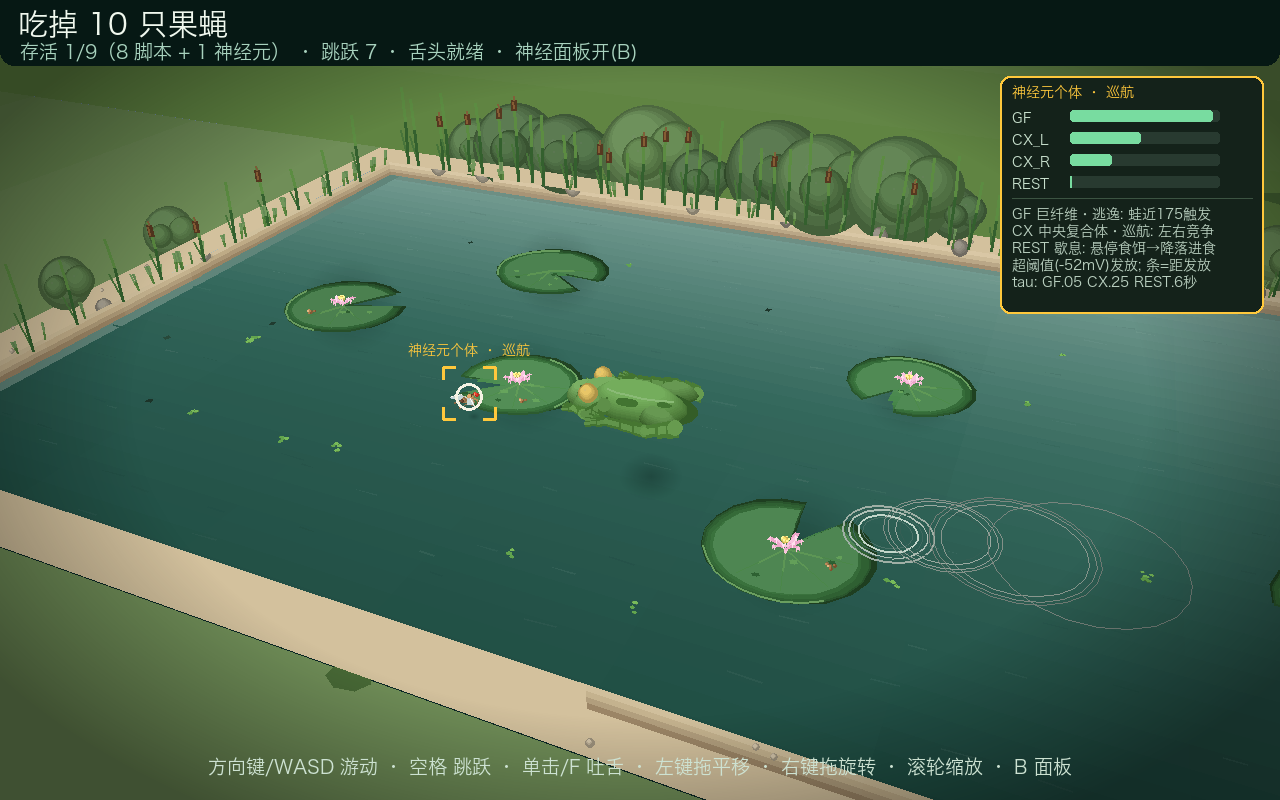
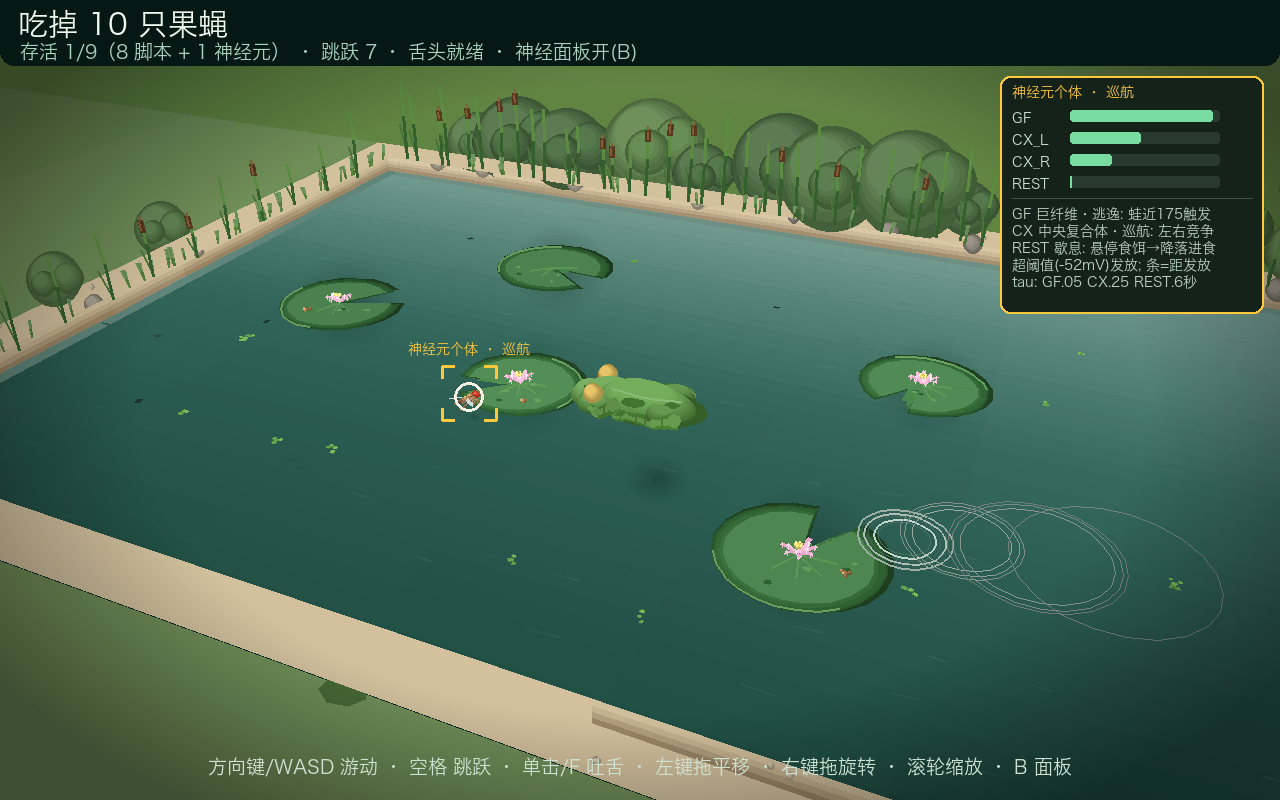
fix(art): tuck the frog's legs into a sitting pose, shorten them, rebuild the fly body
Frog:
- hind legs are now the frog's folded sitting pose (knee just outside the silhouette,
  long foot folded forward alongside the body) and are ~25% shorter overall: hip
  (-8,13) -> knee (-20,23) -> ankle (0,28) -> toe (13,26), toes 9 units, webbing
  scaled to match; the kick/swim pose and the airborne extended pose were rescaled too
- front legs shortened (shoulder 17, elbow 24, wrist 35) with 7-unit toes

Fly:
- 5-segment banded abdomen (amber to dark, tapering), humped thorax with a darker
  scutellum, 8 dorsal bristles in two rows, bigger compound eyes that fill the head,
  a permanently visible proboscis, tapered antennae
- legs rebuilt on limb() (femur/tibia/tarsus taper, lit joint fills instead of dark
  ball caps)
- wings rebuilt: rounded teardrop outline with an edge shadow polygon, three veins and
  a leading-edge highlight; the folded wing now lies along the abdomen with an inner
  vein line

Docs: all four game screenshots regenerated (including the mid-page pond figure that
shows the neural individual's bracket and live panel)

Verified: --selftest PASS, ~23 ms/frame headless

diff --git a/main.py b/main.py
@@ -191,49 +191,53 @@ class Frog:
                   self.z + lz if lz is not None else self.z)
 
     def _hind_leg(self, painter, cam, side, gz, swing, airborne, skin, dark):
-        """后腿：股 → 胫 → 跗，折成青蛙特有的 Z 形，末端是四趾蹼足。"""
-        knee_out = -0.9 * swing * side
-        hip = self._local(-8, side * 15, 9.5)
+        """后腿：股 → 胫 → 跗，折成青蛙特有的 Z 形并收在身体两侧，末端是四趾蹼足。
+
+        静止时是青蛙的坐姿——膝略微顶出身体轮廓, 长脚掌贴着身体侧面向前收；
+        游动/跳跃时腿才蹬开(swing 驱动)。"""
+        kick = swing / 9.0 if not airborne else 1.0      # -1 ~ 1
+        hip = self._local(-8, side * 13, 9.5)
         if airborne:
-            knee = self._local(-38, side * 24, 8.0)
-            ankle = self._local(-18, side * 33, 6.5)
-            toe = self._local(12, side * 30, 6.0)
+            knee = self._local(-29, side * 17, 8.0)
+            ankle = self._local(-15, side * 23, 7.0)
+            toe = self._local(5, side * 21, 6.5)
         else:
-            knee = self._local(-31 + knee_out, side * 34, 6.5)
-            ankle = self._local(-5 + swing * 0.6, side * 40, gz - self.z + 2.0)
-            toe = self._local(17 + swing * 0.9, side * 35, gz - self.z + 1.0)
+            knee = self._local(-20 - 3.0 * kick, side * 23 + 3.0 * abs(kick), 6.5)
+            ankle = self._local(0 + 4.0 * kick, side * 28 + 2.5 * abs(kick),
+                                gz - self.z + 2.0)
+            toe = self._local(13 + 3.0 * kick, side * 26, gz - self.z + 1.2)
         # 股部：贴在大腿上的扁平肌肉块(椭圆), 比一根粗筒自然得多
         femur_ang = math.atan2(knee.y - hip.y, knee.x - hip.x)
         thigh = hip.lerp(knee, 0.48)
-        blob(painter, cam, thigh.x, thigh.y, hip.z - 4.0, 15.5, 9.5, 9.0,
+        blob(painter, cam, thigh.x, thigh.y, hip.z - 4.0, 13.0, 8.2, 8.5,
              mix(skin, dark, 0.16), heading=femur_ang, layers=9, taper=0.40, bias=0.55)
-        limb(painter, cam, knee, ankle, 6.4, skin, bias=0.3, taper=0.58)
-        limb(painter, cam, ankle, toe, 5.0, mix(skin, dark, 0.18), bias=0.2, taper=0.6)
+        limb(painter, cam, knee, ankle, 5.6, skin, bias=0.3, taper=0.58)
+        limb(painter, cam, ankle, toe, 4.4, mix(skin, dark, 0.18), bias=0.2, taper=0.6)
         for k in range(4):                                  # 蹼趾：从跗端向前扇开
             ta = self.heading + side * (0.52 - k * 0.34)
-            tip = V3(toe.x + math.cos(ta) * 15, toe.y + math.sin(ta) * 15, toe.z)
-            limb(painter, cam, toe, tip, 3.1, mix(skin, dark, 0.28), bias=0.1, taper=0.5)
+            tip = V3(toe.x + math.cos(ta) * 9, toe.y + math.sin(ta) * 9, toe.z)
+            limb(painter, cam, toe, tip, 2.8, mix(skin, dark, 0.28), bias=0.1, taper=0.5)
         web = [toe]                                         # 趾间蹼：薄扇形膜, 让后足读作"桨"
         for k in (0, 3):
             ta = self.heading + side * (0.52 - k * 0.34)
-            web.append(V3(toe.x + math.cos(ta) * 13.0, toe.y + math.sin(ta) * 13.0, toe.z - 0.2))
+            web.append(V3(toe.x + math.cos(ta) * 7.8, toe.y + math.sin(ta) * 7.8, toe.z - 0.2))
         flat_polygon(painter, cam, web, mix(skin, dark, 0.5), bias=0.05)
 
     def _front_leg(self, painter, cam, side, gz, swing, airborne, skin, dark):
         """前腿：肩 → 肘 → 腕，三趾。"""
         if airborne:
-            elbow = self._local(30, side * 26, 5.0)
-            wrist = self._local(42, side * 18, 3.0)
+            elbow = self._local(26, side * 21, 5.0)
+            wrist = self._local(34, side * 15, 3.0)
         else:
-            elbow = self._local(28, side * 22, 3.0)
-            wrist = self._local(42 + swing * 0.5 * side, side * 15, gz - self.z + 1.0)
-        shoulder = self._local(19, side * 13, 7.5)
-        limb(painter, cam, shoulder, elbow, 6.2, mix(skin, dark, 0.3), bias=0.4)
-        limb(painter, cam, elbow, wrist, 4.6, skin, bias=0.2)
+            elbow = self._local(24, side * 18, 3.0)
+            wrist = self._local(35 + swing * 0.5 * side, side * 13, gz - self.z + 1.0)
+        shoulder = self._local(17, side * 12, 7.5)
+        limb(painter, cam, shoulder, elbow, 5.6, mix(skin, dark, 0.3), bias=0.4)
+        limb(painter, cam, elbow, wrist, 4.2, skin, bias=0.2)
         for k in range(3):
             ta = self.heading + side * (0.42 - k * 0.42)
-            tip = V3(wrist.x + math.cos(ta) * 9, wrist.y + math.sin(ta) * 9, wrist.z)
-            limb(painter, cam, wrist, tip, 2.7, mix(skin, dark, 0.25), bias=0.1, taper=0.5)
+            tip = V3(wrist.x + math.cos(ta) * 7, wrist.y + math.sin(ta) * 7, wrist.z)
+            limb(painter, cam, wrist, tip, 2.4, mix(skin, dark, 0.25), bias=0.1, taper=0.5)
 
     def draw(self, painter, cam, t, pads):
         x, y = self.pos
@@ -420,42 +424,49 @@ class FlyBase:
                 hp = L(hip[0], hip[1], z + 1.0)
                 kn = L(knee[0], knee[1], (z + 1.0 + gz) / 2 + 0.6)
                 ft = L(foot0[0] + stride, foot0[1], gz + 0.25)
-            self._seg(painter, cam, hp, kn, (178, 140, 92), 2)
-            self._seg(painter, cam, kn, ft, (150, 116, 74), 1)
-            sphere(painter, cam, ft, 0.7, (120, 88, 56))
-        # 身体: 参考真实果蝇——琥珀色前腹, 越往后颜色越深(环带), 橙棕胸, 砖红复眼
-        ab1 = V3(x + rot2(-3.0, 0, h)[0], y + rot2(-3.0, 0, h)[1], z + 1.0)
-        ab2 = V3(x + rot2(-5.0, 0, h)[0], y + rot2(-5.0, 0, h)[1], z + 0.9)
-        ab3 = V3(x + rot2(-6.7, 0, h)[0], y + rot2(-6.7, 0, h)[1], z + 0.8)
-        sphere(painter, cam, ab1, 3.0, (214, 172, 116), bias=0.5)
-        sphere(painter, cam, ab2, 2.7, (176, 132, 84), bias=0.55)
-        sphere(painter, cam, ab3, 2.2, (104, 66, 44), bias=0.6)
-        th = V3(x + rot2(0.8, 0, h)[0], y + rot2(0.8, 0, h)[1], z + 1.6)
-        sphere(painter, cam, th, 3.6, (212, 156, 96), bias=0.8)
-        # 胸部刚毛：真实果蝇最有辨识度的特征之一
-        for k in range(6):
-            ba = h + math.pi / 2 + (k - 2.5) * 0.42
-            tilt = 0.4 + 0.25 * abs(k - 2.5) / 2.5
-            b0 = V3(x + rot2(0.6 + (k % 3) * 0.7, (k - 2.5) * 0.55, h)[0],
-                    y + rot2(0.6 + (k % 3) * 0.7, (k - 2.5) * 0.55, h)[1], z + 3.4)
-            b1 = V3(b0.x + math.cos(ba) * 1.5, b0.y + math.sin(ba) * 1.5,
-                    z + 3.4 + 1.9 * tilt)
-            segment(painter, cam, b0, b1, (92, 62, 40), 1, bias=0.5)
+            # 股→胫→跗三段锥形, 关节用亮色补圆(不再是一颗颗球)
+            limb(painter, cam, hp, kn, 0.80, (176, 138, 92), taper=0.72)
+            limb(painter, cam, kn, ft, 0.52, (154, 118, 76), taper=0.55)
+        # 身体: 参考真实果蝇——5 节琥珀色腹部环带(向后变细变深) + 驼背状胸部 + 小盾片
+        for k, (ax, rr, col) in enumerate(((-2.2, 2.9, (224, 184, 128)),
+                                           (-4.1, 2.75, (210, 166, 110)),
+                                           (-5.9, 2.5, (188, 140, 90)),
+                                           (-7.4, 2.1, (152, 104, 66)),
+                                           (-8.6, 1.6, (114, 72, 46)))):
+            ab = V3(x + rot2(ax, 0, h)[0], y + rot2(ax, 0, h)[1], z + 1.25 - 0.06 * k)
+            sphere(painter, cam, ab, rr, col, bias=0.5 + 0.02 * k, sheen=0.75)
+        th = V3(x + rot2(0.7, 0, h)[0], y + rot2(0.7, 0, h)[1], z + 1.9)
+        sphere(painter, cam, th, 3.5, (208, 152, 94), bias=0.8, sheen=0.7)
+        sc = V3(x + rot2(-1.5, 0, h)[0], y + rot2(-1.5, 0, h)[1], z + 2.3)
+        sphere(painter, cam, sc, 2.3, (178, 122, 76), bias=0.85, sheen=0.6)
+        # 刚毛：胸部两列背中刚毛 + 头顶两对(真实果蝇最一眼可辨的特征)
+        for k in range(8):
+            row, col_i = divmod(k, 4)
+            ba = h + math.pi / 2 + (col_i - 1.5) * 0.5
+            tilt = 0.5 + 0.3 * (1 - abs(col_i - 1.5) / 1.5)
+            b0 = V3(x + rot2(-0.6 + 0.9 * col_i, (row - 0.5) * 1.5, h)[0],
+                    y + rot2(-0.6 + 0.9 * col_i, (row - 0.5) * 1.5, h)[1], z + 3.3)
+            b1 = V3(b0.x + math.cos(ba) * 1.2 * (row * 2 - 1),
+                    b0.y + math.sin(ba) * 1.2 * (row * 2 - 1), z + 3.3 + 1.7 * tilt)
+            segment(painter, cam, b0, b1, (88, 58, 38), 1, bias=0.5)
         # 平衡棒（后翅退化成的陀螺仪器官，飞行平衡用）
         for side in (-1, 1):
             hp = V3(x + rot2(-2.6, side * 2.4, h)[0], y + rot2(-2.6, side * 2.4, h)[1], z + 1.4)
             sphere(painter, cam, hp, 0.9, (232, 206, 122), bias=0.5)
-        hd = V3(x + rot2(5.8, 0, h)[0], y + rot2(5.8, 0, h)[1], z + 2.2)
-        sphere(painter, cam, hd, 2.4, (206, 156, 100), bias=1.1)
+        hd = V3(x + rot2(5.9, 0, h)[0], y + rot2(5.9, 0, h)[1], z + 2.3)
+        sphere(painter, cam, hd, 2.5, (208, 158, 102), bias=1.1, sheen=0.7)
         # 触角
         for side in (-1, 1):
-            a1 = V3(x + rot2(7.4, side * 0.9, h)[0], y + rot2(7.4, side * 0.9, h)[1], z + 2.8)
-            a2 = V3(x + rot2(9.6, side * 2.0, h)[0], y + rot2(9.6, side * 2.0, h)[1], z + 3.0)
-            self._seg(painter, cam, a1, a2, (150, 110, 70), 1)
-        # 红色复眼一对(互相贴近成 bilobed 整体, 不会误读成两只虫)
+            a1 = V3(x + rot2(7.5, side * 0.9, h)[0], y + rot2(7.5, side * 0.9, h)[1], z + 3.0)
+            a2 = V3(x + rot2(9.1, side * 1.7, h)[0], y + rot2(9.1, side * 1.7, h)[1], z + 3.3)
+            limb(painter, cam, a1, a2, 0.5, (150, 110, 70), bias=-0.2, taper=0.7)
+        # 喙/口器：平时也收在头下(果蝇一直带着口器, 进食时才伸出去)
+        pb = V3(x + rot2(7.3, 0, h)[0], y + rot2(7.3, 0, h)[1], z + 1.1)
+        sphere(painter, cam, pb, 1.0, (150, 100, 62), bias=1.2, sheen=0.4)
+        # 砖红复眼一对：几乎占满头部, 互相贴近成 bilobed 整体(不会误读成两只虫)
         for side in (-1, 1):
-            e = V3(x + rot2(6.2, side * 1.1, h)[0], y + rot2(6.2, side * 1.1, h)[1], z + 2.7)
-            sphere(painter, cam, e, 2.3, (226, 48, 36), bias=1.4)
+            e = V3(x + rot2(6.2, side * 1.5, h)[0], y + rot2(6.2, side * 1.5, h)[1], z + 2.9)
+            sphere(painter, cam, e, 2.6, (222, 52, 38), bias=1.4, sheen=0.8)
         # 口器(进食时伸向食饵)
         if mode_eat(self):
             p1 = V3(x + rot2(7.4, 0, h)[0], y + rot2(7.4, 0, h)[1], z + 1.6)
@@ -470,36 +481,35 @@ class FlyBase:
                 wang = h + side * (2.15 + flap)
                 wx, wy = math.cos(wang), math.sin(wang)
                 bx, by = rot2(-2, side * 1.6, h)
-                pts = [V3(x + bx, y + by, z + 2.6),
-                       V3(x + bx + wx * 5, y + by + wy * 5, z + 5.2),
-                       V3(x + bx + wx * 13, y + by + wy * 13, z + 3.4),
-                       V3(x + bx + wx * 7 - wy * side * 3, y + by + wy * 7 + wx * side * 3, z + 2.2)]
-                edge = [V3(p.x - wy * side * 0.5, p.y + wx * side * 0.5, p.z + 0.05) for p in pts]
-                flat_polygon(painter, cam, edge, (198, 214, 214), bias=0.26)
-                dome(painter, cam, pts, wing_c, bias=0.3, sheen=0.22)
-                for k in range(3):                        # 翅脉: 由翅基扇形展开
-                    f = 0.35 + 0.3 * k
-                    self._seg(painter, cam,
-                              V3(x + bx + wx * 2.2, y + by + wy * 2.2, z + 3.2),
-                              V3(x + bx + wx * 12.4 * f + wy * side * (1.6 - k),
-                                 y + by + wy * 12.4 * f - wx * side * (1.6 - k),
-                                 z + 3.6 - 0.4 * k), (186, 206, 214), 1)
-                self._seg(painter, cam,
-                          V3(x + bx + wx * 4, y + by + wy * 4, z + 5.0),
-                          V3(x + bx + wx * 12, y + by + wy * 12, z + 3.6),
-                          (252, 252, 244), 1)             # 前缘高光
+                L = 13.0
+                base = V3(x + bx, y + by, z + 2.6)
+
+                def W(u, s, dz):                    # 翅轴 u(0~1) × 横向 s → 世界坐标
+                    return V3(base.x + wx * L * u - wy * side * s,
+                              base.y + wy * L * u + wx * side * s, base.z + dz)
+
+                pts = [base, W(0.30, 2.6, 1.5), W(0.68, 3.0, 1.2),      # 圆头水滴形翅
+                       W(0.97, 1.4, 0.5), W(0.55, -0.9, -0.3)]
+                flat_polygon(painter, cam,
+                             [V3(p.x - wy * side * 0.35, p.y + wx * side * 0.35, p.z + 0.05)
+                              for p in pts], (206, 220, 220), bias=0.26)
+                dome(painter, cam, pts, wing_c, bias=0.3, sheen=0.16)
+                for (u, s) in ((0.95, 0.9), (0.72, 0.2), (0.45, -0.5)):  # 翅脉
+                    limb(painter, cam, W(0.08, 0.2, 0.4), W(u, s, 0.2), 0.22,
+                         (188, 208, 214), bias=0.05, taper=0.6)
+                limb(painter, cam, W(0.10, 1.4, 0.9), W(0.90, 1.5, 0.6), 0.18,
+                     (252, 252, 244), bias=0.02, taper=0.8)      # 前缘高光
         else:
-            # 收拢的翅: 贴在背上沿身体方向的窄翅面, 不再伸出身后形成"重影"
+            # 收拢的翅: 覆盖在腹部两侧、翅尖略微内收(停歇姿态)
             for side in (-1, 1):
-                bx, by = rot2(-1.0, side * 1.0, h)
-                mx, my = rot2(-4.5, side * 1.3, h)
-                tx, ty = rot2(-7.8, side * 0.9, h)
-                pts = [V3(x + bx, y + by, z + 2.2), V3(x + mx, y + my, z + 2.35),
-                       V3(x + tx, y + ty, z + 2.1), V3(x + tx - 0.8, y + ty - 0.8, z + 1.9)]
-                dome(painter, cam, pts, (226, 232, 226), bias=0.55, layer=4, sheen=0.20)
-                self._seg(painter, cam,
-                          V3(x + bx, y + by, z + 2.25),
-                          V3(x + tx, y + ty, z + 2.15), (244, 248, 244), 1)
+                def RL(u, s, dz):                   # 身体局部坐标 → 世界(收翅用)
+                    return V3(x + rot2(u, side * s, h)[0], y + rot2(u, side * s, h)[1], z + dz)
+
+                pts = [RL(-0.6, 1.9, 2.5), RL(-5.2, 2.4, 2.6),
+                       RL(-9.4, 0.7, 2.3), RL(-8.4, 3.2, 2.1)]
+                dome(painter, cam, pts, (226, 232, 226), bias=0.55, layer=4, sheen=0.18)
+                limb(painter, cam, RL(-0.6, 1.9, 2.62), RL(-8.6, 1.6, 2.42), 0.2,
+                     (244, 248, 244), bias=0.4, taper=0.7)
 
 
 def mode_eat(fly):
